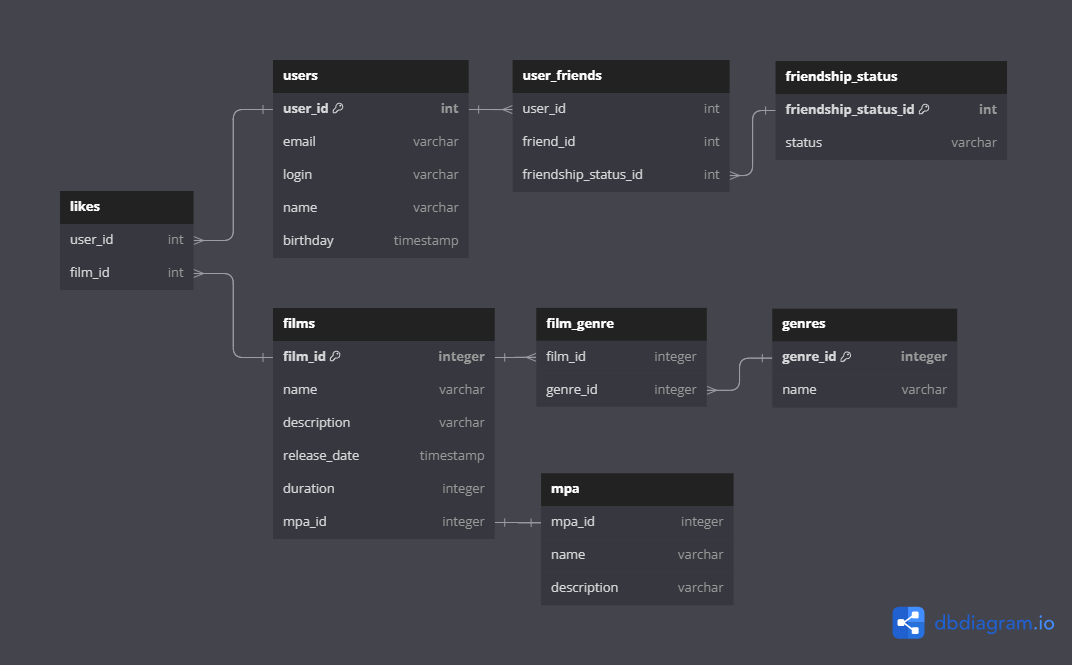
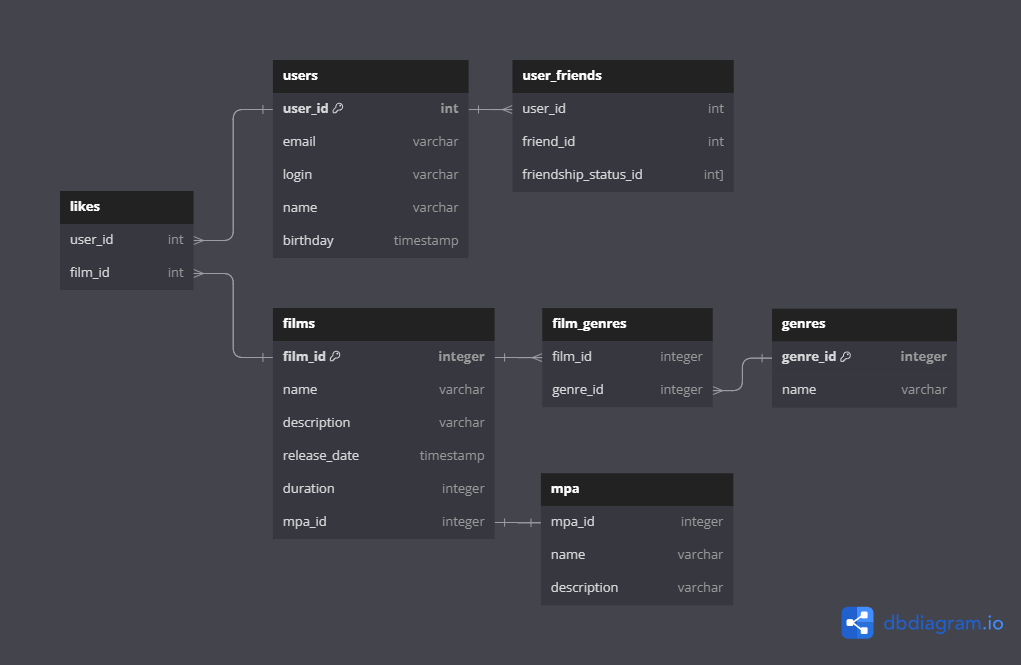
Внести правки

diff --git a/src/main/java/ru/yandex/practicum/filmorate/storage/impl/FriendshipDaoImpl.java b/src/main/java/ru/yandex/practicum/filmorate/storage/impl/FriendshipDaoImpl.java
@@ -2,10 +2,14 @@ package ru.yandex.practicum.filmorate.storage.impl;
 
 import org.springframework.jdbc.core.JdbcTemplate;
 import org.springframework.stereotype.Component;
+import ru.yandex.practicum.filmorate.enums.FriendshipStatus;
+import ru.yandex.practicum.filmorate.exception.ValidationException;
+import ru.yandex.practicum.filmorate.model.User;
 import ru.yandex.practicum.filmorate.storage.dao.FriendshipDao;
 
 import java.sql.ResultSet;
 import java.sql.SQLException;
+import java.time.LocalDate;
 import java.util.List;
 
 @Component
@@ -32,9 +36,11 @@ public class FriendshipDaoImpl implements FriendshipDao {
     }
 
     @Override
-    public List<Integer> getFriends(int userId) {
-        String sql = "SELECT friend_id FROM user_friends WHERE user_id = ?";
-        return jdbcTemplate.query(sql, this::makeId, userId);
+    public List<User> getFriends(int userId) {
+        String sql = "SELECT u.* FROM users u" +
+                " JOIN user_friends AS uf ON u.user_id = uf.friend_id AND uf.user_id = ?";
+
+        return jdbcTemplate.query(sql, this::makeUser, userId);
     }
 
     private int makeId(ResultSet rs, int rowNum) throws SQLException {
@@ -42,11 +48,40 @@ public class FriendshipDaoImpl implements FriendshipDao {
     }
 
     private int friendshipChecker(int userId, int friendId) {
-        List<Integer> result = getFriends(friendId);
-        if (result.contains(userId)) {
-            return 2;
-        } else {
-            return 1;
+        List<User> result = getFriends(friendId);
+        for (User user : result) {
+            if (user.getId() == userId) {
+                return 2;
+            }
         }
+        return 1;
+    }
+
+    @Override
+    public FriendshipStatus getFriendshipStatusById(int friendshipStatusId) {
+        if (friendshipStatusId == 1) {
+            return FriendshipStatus.PENDING;
+        } else if (friendshipStatusId == 2) {
+            return FriendshipStatus.CONFIRMED;
+        } else {
+            throw new ValidationException("Не найден статус дружбы с id = " + friendshipStatusId);
+        }
+    }
+
+    private User makeUser(ResultSet rs, int rowNum) throws SQLException {
+        int id = rs.getInt("user_id");
+        String email = rs.getString("email");
+        String login = rs.getString("login");
+        String name = rs.getString("name");
+        LocalDate birthday = rs.getDate("birthday").toLocalDate();
+
+
+        return User.builder()
+                .id(id)
+                .email(email)
+                .login(login)
+                .name(name)
+                .birthday(birthday)
+                .build();
     }
 }

diff --git a/src/main/java/ru/yandex/practicum/filmorate/storage/dao/FilmDbStorage.java b/src/main/java/ru/yandex/practicum/filmorate/storage/dao/FilmDbStorage.java
@@ -13,6 +13,7 @@ import ru.yandex.practicum.filmorate.storage.FilmStorage;
 import java.sql.ResultSet;
 import java.sql.SQLException;
 import java.time.LocalDate;
+import java.util.ArrayList;
 import java.util.HashSet;
 import java.util.List;
 import java.util.Optional;
@@ -53,7 +54,7 @@ public class FilmDbStorage implements FilmStorage {
     }
 
     private void insertFilmGenres(Film film) {
-        String sql = "MERGE INTO  film_genre (film_id, genre_id) VALUES (?, ?)";
+        String sql = "MERGE INTO  film_genres (film_id, genre_id) VALUES (?, ?)";
         for (Genre genre : film.getGenres()) {
             jdbcTemplate.update(sql, film.getId(), genre.getId());
         }
@@ -83,7 +84,7 @@ public class FilmDbStorage implements FilmStorage {
     }
 
     public void cleanOldFilmGenresRecords(Film film) {
-        String sqlQuery = "DELETE FROM film_genre WHERE film_id = ?";
+        String sqlQuery = "DELETE FROM film_genres WHERE film_id = ?";
         jdbcTemplate.update(sqlQuery, film.getId());
     }
 
@@ -112,7 +113,6 @@ public class FilmDbStorage implements FilmStorage {
         int duration = rs.getInt("duration");
 
         Mpa mpa = findMpaById(rs.getInt("mpa_id"));
-        Set<Integer> likes = findLikesByFilmId(id);
         List<Genre> genres = findGenresByFilmId(id);
 
         return Film.builder()
@@ -131,13 +131,8 @@ public class FilmDbStorage implements FilmStorage {
         return jdbcTemplate.queryForObject(sql, this::makeMpa, mpaId);
     }
 
-    private Set<Integer> findLikesByFilmId(int filmId) {
-        String sql = "SELECT user_id FROM likes WHERE film_id = ?";
-        return new HashSet<>(jdbcTemplate.queryForList(sql, Integer.class, filmId));
-    }
-
     private List<Genre> findGenresByFilmId(int filmId) {
-        String sql = "SELECT DISTINCT g.genre_id, g.name FROM film_genre AS fg" +
+        String sql = "SELECT DISTINCT g.genre_id, g.name FROM film_genres AS fg" +
                 " JOIN genres AS g ON fg.genre_id = g.genre_id WHERE fg.film_id = ?";
         return jdbcTemplate.query(sql, (rs, rowNum) -> makeGenre(rs), filmId);
     }

diff --git a/src/main/java/ru/yandex/practicum/filmorate/storage/dao/UserDbStorage.java b/src/main/java/ru/yandex/practicum/filmorate/storage/dao/UserDbStorage.java
@@ -3,15 +3,16 @@ package ru.yandex.practicum.filmorate.storage.dao;
 import org.springframework.beans.factory.annotation.Qualifier;
 import org.springframework.jdbc.core.JdbcTemplate;
 import org.springframework.stereotype.Component;
+import ru.yandex.practicum.filmorate.enums.FriendshipStatus;
 import ru.yandex.practicum.filmorate.exception.UserNotFoundException;
 import ru.yandex.practicum.filmorate.exception.ValidationException;
-import ru.yandex.practicum.filmorate.model.FriendshipStatus;
 import ru.yandex.practicum.filmorate.model.User;
 import ru.yandex.practicum.filmorate.storage.UserStorage;
 
 import java.sql.ResultSet;
 import java.sql.SQLException;
 import java.time.LocalDate;
+import java.util.Collection;
 import java.util.List;
 import java.util.Optional;
 
@@ -78,11 +79,11 @@ public class UserDbStorage implements UserStorage {
                 .build();
     }
 
-    private FriendshipStatus getFriendshipStatusById(int friendshipStatusId) {
-        String sql = "SELECT * FROM friendship_status WHERE friendship_status_id = ?";
-        return jdbcTemplate.queryForObject(sql, (rs, rowNum) -> FriendshipStatus.builder()
-                .id(rs.getInt("friendship_status_id"))
-                .status(rs.getString("status"))
-                .build(), friendshipStatusId);
+    @Override
+    public Collection<User> getCommonFriends(int userId, int friendId) throws UserNotFoundException {
+        String sql = "SELECT u.* FROM users u" +
+                " JOIN user_friends uf1 ON u.user_id = uf1.friend_id AND uf1.user_id = ?" +
+                " JOIN user_friends uf2 ON u.user_id = uf2.friend_id AND uf2.user_id = ?";
+        return jdbcTemplate.query(sql, this::makeUser, userId, friendId);
     }
 }

diff --git a/src/main/java/ru/yandex/practicum/filmorate/service/UserService.java b/src/main/java/ru/yandex/practicum/filmorate/service/UserService.java
@@ -73,26 +73,14 @@ public class UserService {
 
         Optional<User> optionalUser = userStorage.findUserById(userId);
         if (optionalUser.isPresent()) {
-            for (int friendId : friendshipDao.getFriends(userId)) {
-                if (userStorage.findUserById(friendId).isPresent())
-                    allFriends.add(userStorage.findUserById(friendId).get());
-            }
+            List<User> friends = friendshipDao.getFriends(userId);
+            allFriends.addAll(friends);
         }
         return allFriends;
     }
 
     public Collection<User> getCommonFriends(int userId, int friendId) throws UserNotFoundException {
-        List<Integer> userFriends = friendshipDao.getFriends(userId);
-        List<Integer> friendFriends = friendshipDao.getFriends(friendId);
-
-        List<User> commonFriends = new ArrayList<>();
-
-        for (int id : userFriends) {
-            if (friendFriends.contains(id)) {
-                userStorage.findUserById(id).ifPresent(commonFriends::add);
-            }
-        }
-        return commonFriends;
+        return userStorage.getCommonFriends(userId, friendId);
     }
 
     public User getUserById(int userId) throws UserNotFoundException {

diff --git a/src/main/java/ru/yandex/practicum/filmorate/service/MpaService.java b/src/main/java/ru/yandex/practicum/filmorate/service/MpaService.java
@@ -11,19 +11,19 @@ import java.util.List;
 @Service
 public class MpaService {
 
-    private final MpaDao mpaRatingDao;
+    private final MpaDao mpaDao;
 
     public MpaService(MpaDao mpaRatingDao) {
-        this.mpaRatingDao = mpaRatingDao;
+        this.mpaDao = mpaRatingDao;
     }
 
     public List<Mpa> findAll() {
-        return mpaRatingDao.findAll();
+        return mpaDao.findAll();
     }
 
-    public Mpa findMpaServiceById(int id) {
+    public Mpa findMpaById(int id) {
         try {
-            return mpaRatingDao.findMpaServiceById(id);
+            return mpaDao.findMpaById(id);
         } catch (EmptyResultDataAccessException e) {
             throw new IllegalIdException("Не найдено mpa c id =" + id);
         }

diff --git a/src/main/java/ru/yandex/practicum/filmorate/storage/UserStorage.java b/src/main/java/ru/yandex/practicum/filmorate/storage/UserStorage.java
@@ -4,6 +4,7 @@ import ru.yandex.practicum.filmorate.exception.UserNotFoundException;
 import ru.yandex.practicum.filmorate.exception.ValidationException;
 import ru.yandex.practicum.filmorate.model.User;
 
+import java.util.Collection;
 import java.util.List;
 import java.util.Optional;
 
@@ -17,5 +18,7 @@ public interface UserStorage {
     Optional<User> findUserById(int id) throws UserNotFoundException;
 
     boolean containsUser(int userId);
+
+    Collection<User> getCommonFriends(int userId, int friendId) throws UserNotFoundException;
 
 }

diff --git a/src/main/java/ru/yandex/practicum/filmorate/storage/dao/FriendshipDao.java b/src/main/java/ru/yandex/practicum/filmorate/storage/dao/FriendshipDao.java
@@ -1,5 +1,8 @@
 package ru.yandex.practicum.filmorate.storage.dao;
 
+import ru.yandex.practicum.filmorate.enums.FriendshipStatus;
+import ru.yandex.practicum.filmorate.model.User;
+
 import java.util.List;
 
 public interface FriendshipDao {
@@ -7,5 +10,7 @@ public interface FriendshipDao {
 
     void deleteFriend(int userId, int friendId);
 
-    List<Integer> getFriends(int userId);
+    List<User> getFriends(int userId);
+
+    FriendshipStatus getFriendshipStatusById(int friendshipStatusId);
 }

diff --git a/src/main/java/ru/yandex/practicum/filmorate/storage/impl/LikesDaoImpl.java b/src/main/java/ru/yandex/practicum/filmorate/storage/impl/LikesDaoImpl.java
@@ -30,8 +30,8 @@ public class LikesDaoImpl implements LikesDao {
 
     @Override
     public int likesCount(int filmId) {
-        String sql = "SELECT user_id from likes WHERE film_id = ?";
-        return jdbcTemplate.query(sql, this::makeId, filmId).size();
+        String sql = "SELECT COUNT(*) from likes WHERE film_id = ?";
+        return jdbcTemplate.queryForObject(sql, Integer.class, filmId);
     }
 
     private int makeId(ResultSet rs, int rowNum) throws SQLException {

diff --git a/src/main/java/ru/yandex/practicum/filmorate/controller/MpaController.java b/src/main/java/ru/yandex/practicum/filmorate/controller/MpaController.java
@@ -25,9 +25,9 @@ public class MpaController {
     }
 
     @GetMapping("/{id}")
-    public Mpa getMpaServiceById(@PathVariable int id) {
+    public Mpa findMpaById(@PathVariable int id) {
         log.info("Получен запрос на получение mpa.");
-        return mpaService.findMpaServiceById(id);
+        return mpaService.findMpaById(id);
     }
 
     @GetMapping()

diff --git a/src/main/java/ru/yandex/practicum/filmorate/model/Mpa.java b/src/main/java/ru/yandex/practicum/filmorate/model/Mpa.java
@@ -6,6 +6,8 @@ import lombok.Getter;
 import lombok.NoArgsConstructor;
 import lombok.Setter;
 
+import javax.validation.constraints.NotBlank;
+
 @Getter
 @Setter
 @NoArgsConstructor
@@ -13,6 +15,8 @@ import lombok.Setter;
 @AllArgsConstructor
 public class Mpa {
     private int id;
+    @NotBlank
     private String name;
+    @NotBlank
     private String description;
 }

diff --git a/src/main/java/ru/yandex/practicum/filmorate/storage/impl/MpaDaoImpl.java b/src/main/java/ru/yandex/practicum/filmorate/storage/impl/MpaDaoImpl.java
@@ -23,7 +23,7 @@ public class MpaDaoImpl implements MpaDao {
         return jdbcTemplate.query(sql, this::makeMpa);
     }
 
-    public Mpa findMpaServiceById(int id) {
+    public Mpa findMpaById(int id) {
         String sql = "SELECT * FROM mpa WHERE mpa_id = ?";
         return jdbcTemplate.queryForObject(sql, this::makeMpa, id);
     }

diff --git a/src/main/java/ru/yandex/practicum/filmorate/enums/FriendshipStatus.java b/src/main/java/ru/yandex/practicum/filmorate/enums/FriendshipStatus.java
@@ -1,0 +1,15 @@
+package ru.yandex.practicum.filmorate.enums;
+
+import lombok.Getter;
+
+@Getter
+public enum FriendshipStatus {
+    PENDING("неподтвержденная"),
+    CONFIRMED("подтвержденная");
+
+    private final String title;
+
+    FriendshipStatus(String title) {
+        this.title = title;
+    }
+}
